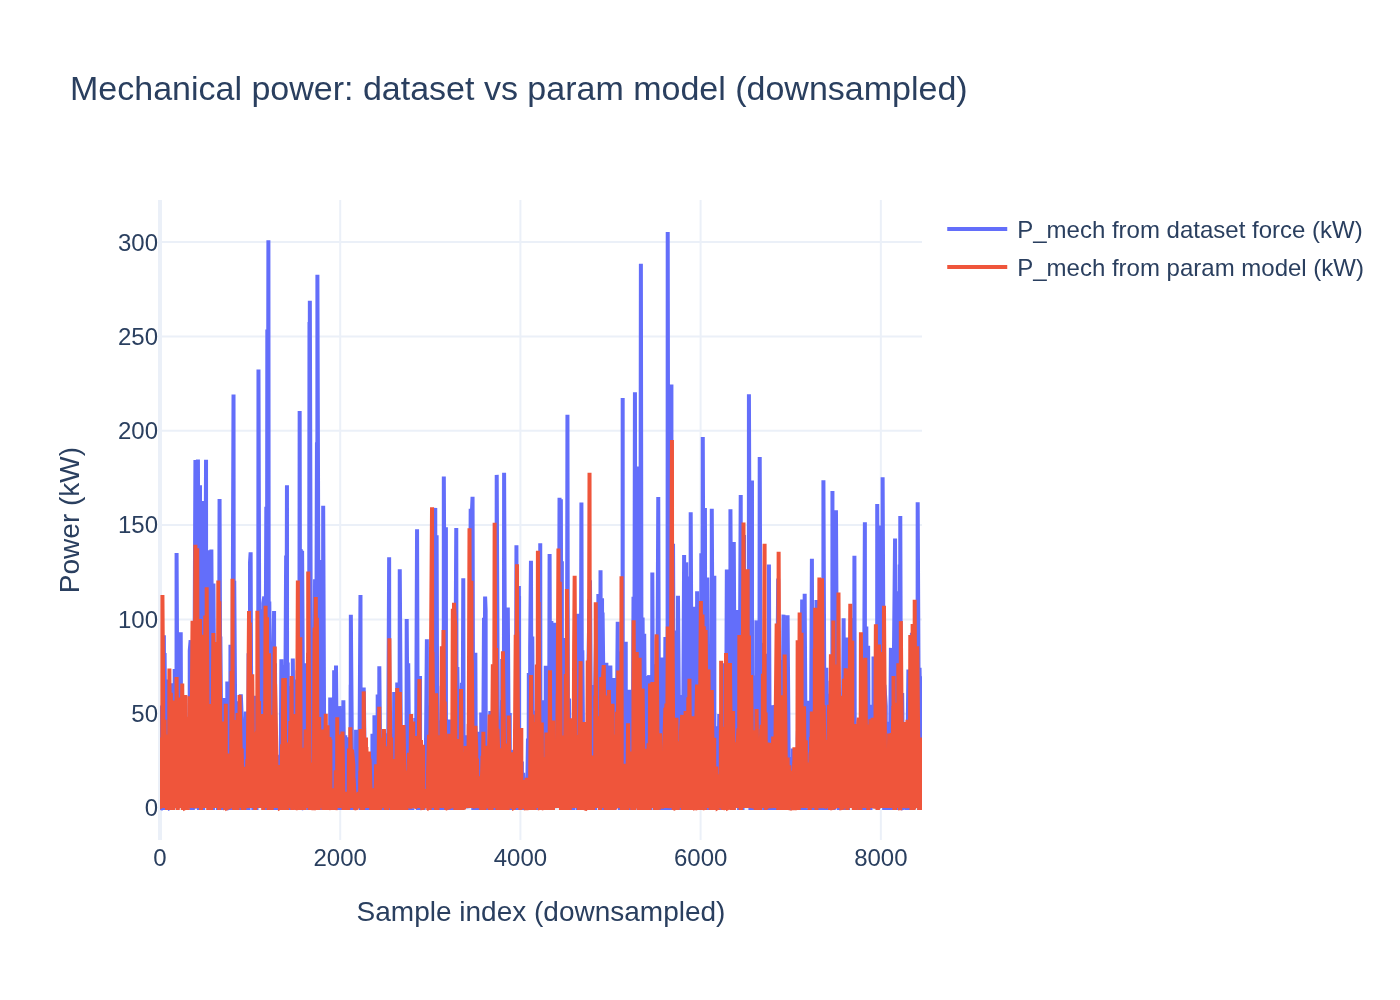
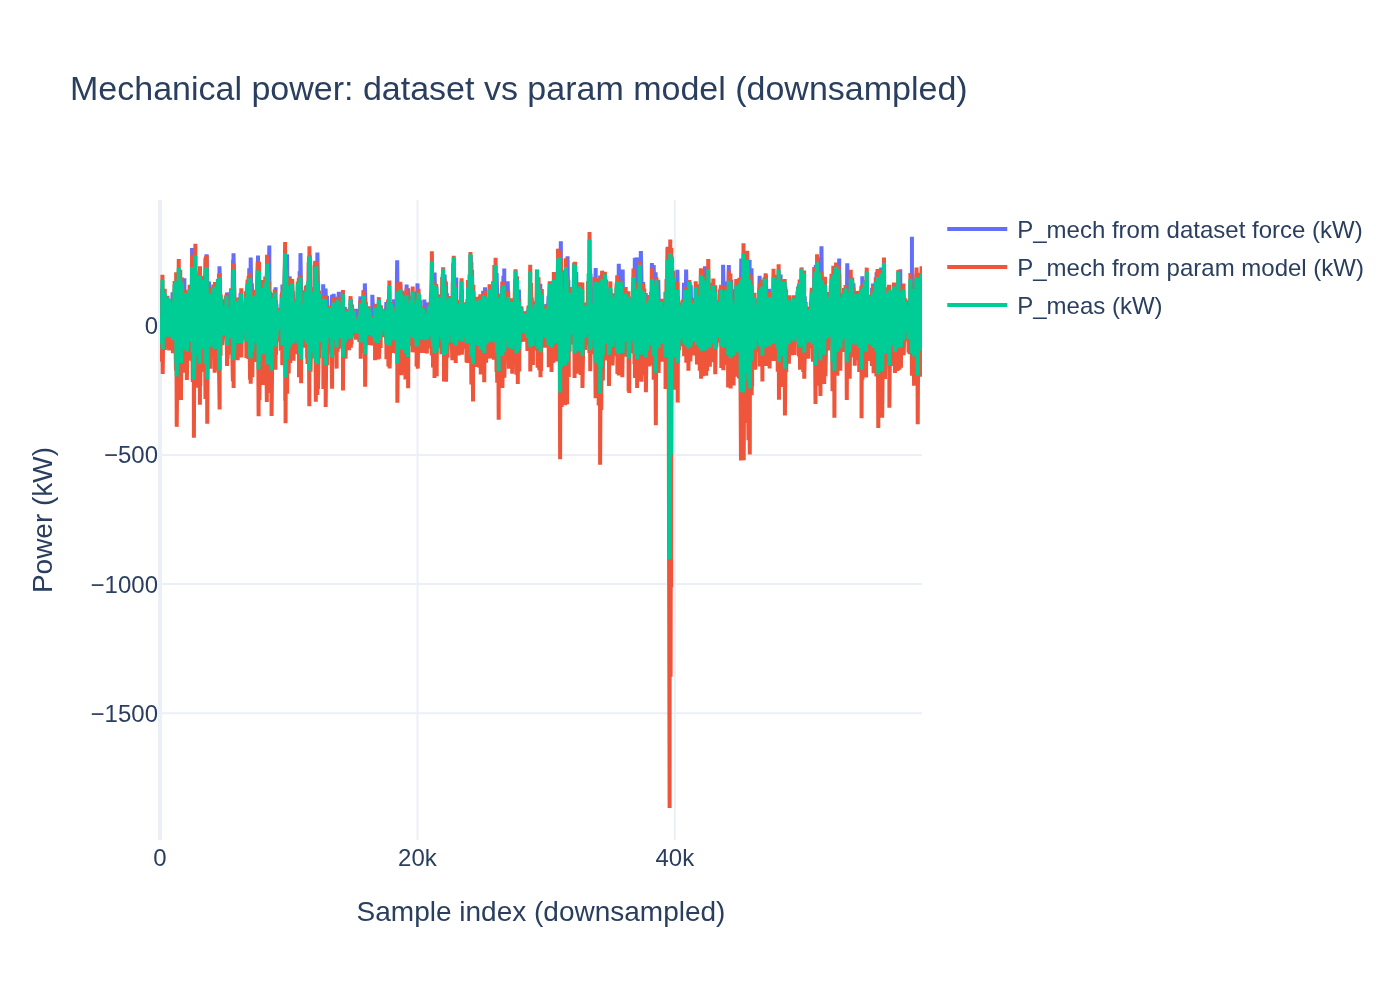
Enhance EV energy system - added negative power calculations

Changed region(s): [[0.0, 0.248, 0.8293, 0.868], [0.0921, 0.217, 0.1229, 0.248]]

diff --git a/ev_energy_model_validation_v2.py b/ev_energy_model_validation_v2.py
@@ -18,10 +18,10 @@ OUTDIR.mkdir(exist_ok=True)
 
 # Tesla Model 3 (Long Range AWD) - paramètres physiques
 RHO = 1.225        # kg/m3
-CD = 0.23          # coefficient de traînée (faible pour Model 3)
+CD = 0.36         # coefficient de traînée (faible pour Model 3)
 A = 2.22           # m2 surface frontale approx
 CRR = 0.009        # résistance au roulement pneus route
-MASS = 1847        # kg (ordre de grandeur Model 3 LR avec conducteur)
+MASS = 1900       # kg (ordre de grandeur Model 3 LR avec conducteur)
 G = 9.81
 
 # ---------- helpers ----------
@@ -63,11 +63,11 @@ df["P_mech_data_kW"] = P_mech_data_W / 1000.0
 
 # ---------- mech power from assumed parameters (for comparison) ----------
 F_aero = 0.5 * RHO * CD * A * v**2
-F_rr   = CRR * MASS * G * np.cos(theta)
-F_gr   = MASS * G * np.sin(theta) *1.8
-F_in   = MASS * a
+F_rr   = CRR * MASS * G * np.cos(theta) *2.5
+F_gr   = MASS * G * np.sin(theta)
+F_in   = MASS * a*1.2
 
-P_mech_param_W = np.maximum((F_aero + F_rr + F_gr + F_in) * v*1.1, 0.0)
+P_mech_param_W = (F_aero + F_rr + F_gr + F_in) * v*2.3
 df["P_mech_param_kW"] = P_mech_param_W / 1000.0
 
 # ---------- apply efficiencies ----------
@@ -122,6 +122,7 @@ if matplotlib_mode:
     plt.figure()
     plt.plot(df["P_mech_data_kW"].to_numpy()[::step], label="P_mech from dataset force (kW)")
     plt.plot(df["P_mech_param_kW"].to_numpy()[::step], label="P_mech from param model (kW)")
+    plt.plot(df["Energy Consumption (kWh)"].to_numpy()[::step], label ="P_measured")
     plt.title("Mechanical power: dataset vs param model (downsampled)")
     plt.xlabel("Sample index (downsampled)")
     plt.ylabel("Power (kW)")
@@ -175,7 +176,7 @@ else:
 
     fig2.add_trace(
         go.Scatter(
-            y=df["P_mech_data_kW"].to_numpy()[::step],
+            y=df["P_mech_data_kW"].to_numpy()[::],
             mode="lines",
             name="P_mech from dataset force (kW)"
         )
@@ -183,9 +184,16 @@ else:
 
     fig2.add_trace(
         go.Scatter(
-            y=df["P_mech_param_kW"].to_numpy()[::step],
+            y=df["P_mech_param_kW"].to_numpy()[::],
             mode="lines",
             name="P_mech from param model (kW)"
+        )
+    )
+    fig2.add_trace(
+        go.Scatter(
+            y=df["Energy Consumption (kWh)"].to_numpy()[::]/df["dt_s"].to_numpy() * 3600.0,
+            mode="lines",
+            name="P_meas (kW)"
         )
     )
 
